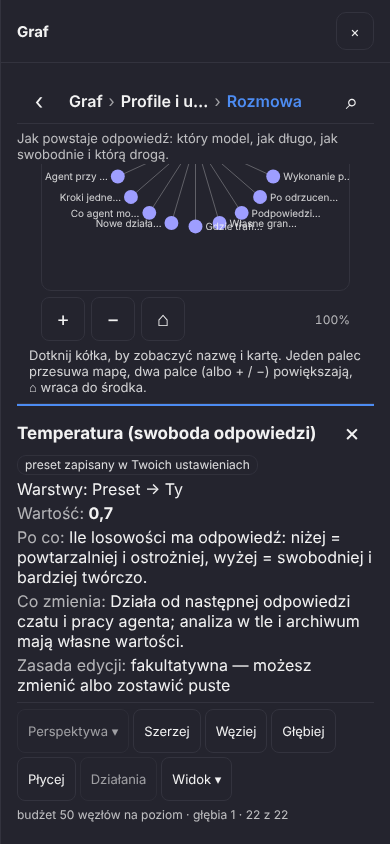
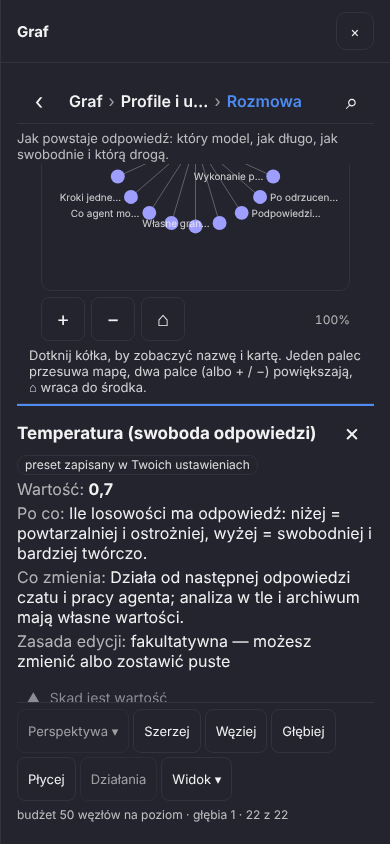
M1-W0 fix batch r1:b1 (resumed): ROM card without "Wartość: partial" (value = status → the status chip says it), seven M1 test scripts in CI, menu Ty / Ta rozmowa open the navigator at party:self / conv:<open conversation> (conv:current resolved in the shell, root when none), map labels only where t
Claude-Session: https://claude.ai/code/session_015yMVYJqXDd8sNSZdYq3gu5

diff --git a/docs/reports/INDEX.md b/docs/reports/INDEX.md
@@ -1540,3 +1540,10 @@ budowy cmake nie uruchamiano (dysk zajęty przez bramkę gdzie indziej).
 - Testy uruchomione (fakty): `test:m1-settings` 9/9, `test:m1-navigator` 11/11 (dwa razy po poprawce Disclosure), `test:shell` zielony, `npm run build` czysty. Przebieg końcowy (kontynuacja P7, 2026-10-21): `npm run build` + **wszystkie 56 skryptów `test:*`** po kolei + `npm run e2e` (`run.mjs`) — zielone; `test:product-integration` za pierwszym razem stanął na zasadzie `onboarding-host.mjs` „Refusing to overwrite prior evidence” (plik wyników z 2026-10-16 w `/home/user/wt/onboarding-host-verification-2026-10-05/`, katalog domyślny obok repozytorium; 21/21 grup przeszło), z `ONBOARDING_HOST_EVIDENCE_DIR` w katalogu roboczym przeszedł cały (nie ruszałem cudzego pliku dowodu). Po zmianie słów ponownie zielone: `test:navigator-state`, `test:settings-human`, `test:role-card`, `test:p25-views`, `test:graph-entry-browser`, `test:m1-navigator` 11/11, `test:m1-settings` 9/9. Przebiegi testów nadpisują śledzone zrzuty w `loom/web/e2e/screenshots/` (13 plików) — przywrócone `git checkout`, jak w P1. Po zmianie słów cały zestaw powtórzony na końcowym drzewie (51c53303): `npm run build` + 56 `test:*` + `npm run e2e` — **59/59, 0 błędów** (9,5 min; `ONBOARDING_HOST_EVIDENCE_DIR` w świeżym katalogu roboczym). Pełny doctest jądra (1731 przypadków) nadal nieuruchomiony do końca (P6) — nie w zakresie tej paczki.
 - Decyzje (techniczne, wg R1–R53) i jak cofnąć: (a) **Zwijany blok nie przewija się przy pierwszym renderze** (tylko po dotknięciu) — ekran otwiera się od góry. Cofnięcie: usunąć `seen` w `Disclosure.tsx`. (b) **Karta roli w e2e po ustawieniu modelu** (`settings.set semantic_model`, jak w `test:role-card`), bo bez modelu jądro nie liczy przepływów per klasa; przypadek bez modelu sprawdzony tylko na API (`flow: null`). Cofnięcie: usunąć wywołanie `settings.set` i asercje `flow_by_class`. (c) **12 zrzutów, nie 15**: pominięte duplikat korzenia, karta ROM, „Zdejmij wartość” i Wszystkie pola (opisane słowami) — limit 8–12 z briefu. Cofnięcie: skopiować z `loom/web/e2e/screenshots/` po przebiegu. (d) **`gate0` nie sprawdza „braku Trybu ratunkowego”**: to pozycja ROM, nie ekran; w webie nie ma takiego ekranu. Cofnięcie: dopisać oczekiwanie, gdy powłoka dostanie testid takiego ekranu. (e) **Zrzuty z przeglądarki, nie z emulatora** — emulator to M1-A0 (S2); raport mówi to wprost. (f) **Słowa stanu z dopowiedzeniem** („jest w aplikacji”, „częściowo w aplikacji”, „budżet N węzłów na poziom”) zamiast gołych „jest”/„częściowo”/„budżet N na poziom” — zmiana tylko w katalogach słów, nie w kodzie. Cofnięcie: przywrócić 12 linii `status.present`/`status.partial`/`bar.budget*` w `conversation_view.pack` (commit tej kontynuacji) i wygenerować ponownie. (g) **Cztery dodatkowe zrzuty, które pakiety m1 piszą do `M1_SHOTS_DIR`** (`m1-navigator-root`, `m1-navigator-card-rom`, `m1-navigator-card-unset`, `m1-settings-all-fields`) nie są w raporcie (limit 8–12) — usunięte z katalogu raportu po przebiegu. Cofnięcie: zostawić je i dopisać do raportu.
 - Nie zrobione tu: przebieg `android-smoke` (S2); przepisanie technicznych zdań z danych („Dlaczego tak jest” roli, powody „planowane” z nazwami plików) na prostsze — praca nad danymi `ports.pack`/`presentation.*`, nie nad ekranem; chip „planowane” w wierszu roli Rozmowa może mylić (znaczy: łańcuch opisany, nieczytany) — słowo stanu z danych, do rozważenia osobne słowo „opis” w `presentation.roles`.
+
+### S1 / M1-W0 (poprawki po przeglądzie r1:b1: wartość ROM, lista CI, menu Ty/Ta rozmowa, podpisy mapy, jedno słownictwo pochodzenia) (2026-10-21, branch `claude/m1-w0`)
+
+- Co jest (5 ustaleń przeglądu, wszystkie poprawione): (1) karta pozycji ROM pokazywała „Wartość: partial” — `valueLine` (`node-card-state.ts`) pomija linię, gdy `value` jest tym samym id co `status` (jądro wysyła `value = status`), chip `status.*` mówi stan słowami; e2e odrzuca gołe id stanu jako wartość karty (`m1-navigator-native.mjs`, lista id z packa). (2) `.github/workflows/loom.yml`: dopisane `test:navigator-state`, `test:node-card-state`, `test:navigator-map`, `test:settings-human`, `test:role-card` oraz po `playwright install` `test:m1-navigator`, `test:m1-settings`. (3) `layouts.json`: `me = navigator:party:self`, `this_conversation = navigator:conv:current`; `resolveNavigatorFocus` w `shell/menu.ts` (bez otwartej rozmowy → korzeń); `withFocusLabel` w `navigator-state.ts` daje krokowi ścieżki etykietę jądra; nowy krok e2e otwiera oba wpisy i porównuje wiersze z `graph.navigate`. (4) `placeLabels` w `navigator-map.ts`: podpis tylko wewnątrz mapy i bez kolizji, kolejność ognisko → dotknięty → reszta, strona odwracana przy krawędzi; test jednostkowy na zatłoczonym poziomie (24 wiersze, 342×300). (5) `layersLine`: linia „Warstwy” znika przy łańcuchu dziedziczenia i przy jednej warstwie; e2e sprawdza, że łańcuch jest jedynym opisem i że jego etykiety są słowami jądra w jego kolejności. Słowa `status.*` dla stanów wierszy Ty/rozmów dodane do `conversation_view.pack` + `builtin.inc` (gen-check czysty).
+- Testy uruchomione (fakty): `npm run build` czysty; `test:navigator-state` 8/8, `test:node-card-state` 8/8, `test:navigator-map` 9/9, `test:shell-menu` 8/8, `test:settings-human` 7/7, `test:role-card` 5/5; jądro przebudowane przyrostowo (`cmake --build --preset dev`); `test:m1-navigator` 12/12 (nowy krok menu Ty/Ta rozmowa), `test:m1-settings` 9/9. Raport `M1_CHECKPOINT_0.md` uzupełniony (menu → ten sam nawigator w trzech ogniskach, karta ROM bez linii wartości, jeden opis pochodzenia, podpisy mapy); zrzuty odświeżone: `m1-navigator-map`, `m1-navigator-card-setting`; dodane `m1-navigator-card-rom`, `m1-navigator-me` (14 PNG, każdy < 110 KB).
+- Decyzje i jak cofnąć: (a) linia „Wartość” znika tylko wtedy, gdy powtarzałaby stan chipu — każda inna wartość tekstowa zostaje (test: `value: present, status: partial` → „present”); cofnięcie: `valueLine` → `valueText`. (b) „Warstwy” ustępuje łańcuchowi zamiast dostać słowa poziomów — jedna lista zamiast dwóch; cofnięcie: usunąć warunek `inheritance` w `layersLine`. (c) Podpisy mapy: estymata szerokości znaku 5.8 px (`LABEL_CHAR_PX_PRESET`, brak miernika tekstu w SVG bez DOM) — presety, nie reguły. (d) `conv:current` jako sentinel w danych menu, rozwiązywany w powłoce (jądro go nie zna); cofnięcie: wpis `panel:graph` w `layouts.json`.
+- Nie zrobione tu: pełny przebieg wszystkich 56 `test:*` + `npm run e2e` (uruchomione tylko skrypty dotknięte zmianą); zrzut `m1-navigator-this_conversation` nie dodany do raportu (rozmowa testowa „M1 card” bez treści — ekran jak Ty, ale pusty); `android-smoke` (S2).

diff --git a/docs/reports/M1_CHECKPOINT_0.md b/docs/reports/M1_CHECKPOINT_0.md
@@ -17,7 +17,11 @@ powstał w teście, który sprawdza to samo, co widać (`loom/web/e2e/m1-navigat
 Dotknij **⋮** w prawym górnym rogu. Pozycje: **Graf · Ustawienia · Ty · Ta rozmowa w grafie · Widoki i okna · Analiza w tle ·
 Warsztat (narzędzia zaawansowane)**; na Androidzie dochodzi **Połączenie**. Nie ma „Pamięci” ani „Wiedzy” — zgodnie z Twoją
 uwagą, że to mylące: pamięć to graf widziany od węzła **Ty**, a wiedza to warstwa dowodów w grafie. Dawne panele nie zniknęły —
-są w **Warsztacie**. Menu „+” przy polu wiadomości (P33) zostało bez zmian.
+są w **Warsztacie**. Menu „+” przy polu wiadomości (P33) zostało bez zmian. **Graf · Ty · Ta rozmowa w grafie** otwierają
+**ten sam nawigator**, tylko w innym miejscu: Graf od korzenia, Ty od węzła **Ty** (Twój profil, preferencje, zainteresowania,
+„Co pamiętam”), Ta rozmowa od węzła otwartej rozmowy (bez otwartej rozmowy — od korzenia, nigdy od węzła, którego nie ma).
+
+![Ty w grafie](M1_CHECKPOINT_0/m1-navigator-me.png)
 
 ## 2. Graf — korzeń: wiersze z jądra, licznik albo „nieznane (powód)”
 
@@ -39,17 +43,23 @@ widzisz: **„budżet 50 węzłów na poziom · głębia 1 · 25 z 25”** — i
 Dotknij **ROM (pamięć tylko do odczytu)**. Ścieżka u góry: **Graf › ROM…** (dotknięcie członu cofa, **‹** cofa o jeden).
 Pod ścieżką jedno zdanie, po co jest ten obszar. 13 pozycji (Rozruch, Meta-ontologia, Interpreter akcji, Sterowniki i
 adaptery, Ustawienia fabryczne, …) — każda z chipem **Preset (ROM)** i stanem **jest w aplikacji / częściowo w aplikacji / planowane** (czy ta część
-aplikacji już działa) oraz zdaniem, co robi. **⋯** przy wierszu albo dotknięcie liścia otwiera **kartę węzła** pod listą: warstwy, wartość, po co, „Skąd jest
-wartość”, „Powiązania”, „Co możesz zrobić” (działania jądra słowami; te bez wykonawcy mają chip „planowane”).
+aplikacji już działa) oraz zdaniem, co robi. **⋯** przy wierszu albo dotknięcie liścia otwiera **kartę węzła** pod listą: chip pochodzenia i stan
+słowami, po co, „Skąd jest wartość”, „Powiązania”, „Co możesz zrobić” (działania jądra słowami; te bez wykonawcy mają chip „planowane”).
+Karta pozycji ROM nie ma osobnej linii „Wartość” — jej wartością z jądra jest sam stan, a ten mówi chip (nie ma na ekranie
+gołego `partial`).
+
+![karta Rozruchu](M1_CHECKPOINT_0/m1-navigator-card-rom.png)
 
 ## 4. Karta ustawienia — wartość, po co, co zmienia, skąd
 
 ![karta Temperatury](M1_CHECKPOINT_0/m1-navigator-card-setting.png)
 
 Graf › Profile i ustawienia › Rozmowa › **Temperatura (swoboda odpowiedzi)**: chip „preset zapisany w Twoich ustawieniach”,
-**Warstwy: Preset → Ty**, **Wartość: 0,7**, **Po co**, **Co zmienia** (od następnej odpowiedzi; analiza w tle i archiwum mają
+**Wartość: 0,7**, **Po co**, **Co zmienia** (od następnej odpowiedzi; analiza w tle i archiwum mają
 własne wartości), **Zasada edycji** (fakultatywna — możesz zmienić albo zostawić puste), **Czyta to** (przepływy, które
-czytają pole).
+czytają pole). Skąd jest wartość, mówi **jeden** opis — łańcuch poziomów w karcie (pkt 5); nie ma nad nim drugiej linii
+„Warstwy: Preset → Ty” innymi słowami, bo dwie nazwy jednego poziomu czytały się jak sprzeczność („Preset → Ty” nad
+„Preset aplikacji — nic tu nie ustawiono”).
 
 ## 5. Zmień → „Dla kogo?” → cały łańcuch dziedziczenia
 
@@ -69,6 +79,8 @@ Projekt (gałąź) → rozmowa → tura. **„Zdejmij wartość: Ta rozmowa (0,3
 
 Pod listą jest **mapa** tego samego poziomu (rysowana silnikiem widoków, układ sektorowy: ognisko w środku, dzieci wokół).
 Dotknij kółka — pod mapą pojawia się pełna nazwa i chip, a niżej ta sama karta co z listy; **Wejdź ›** schodzi poziom niżej.
+Podpis przy kółku jest tylko tam, gdzie mieści się w mapie i nie zasłania innego podpisu (najpierw ognisko i dotknięte
+kółko, potem kolejne wiersze); kółko bez podpisu nie jest ukryte — jego pełna nazwa jest pod mapą po dotknięciu.
 **+ / −** i gest dwoma palcami powiększają, **⌂** wraca do środka. Każde kółko ma cel dotyku 44 px. Prostokąt mapy jest
 zgłaszany powłoce Androida (`LoomBridge.setGestureExclusion`), żeby przesuwanie mapy nie było brane za gest „wstecz”.
 **Widok ▾** przełącza Lista / Mapa / Razem — wybór zapisuje się jako Twoje ustawienie `navigator_layout`
@@ -146,8 +158,8 @@ oddaje decyzję powłoce (`window.__loomBack()` zwraca `false` — tam Android p
   „planowane” z powodem (klasa wynika ze wzorców nazw i progów cen; nie ma jeszcze pola, które zapisuje Twoje klasy).
   Zmiana modelu roli = ta sama karta pola co w grafie. Bez wybranego modelu karta roli mówi, że przepływu jeszcze nie ma.
 - **Obszary „nieznane (powód)”** w korzeniu grafu (Samomodel, Technologie i adaptery, Interfejsy, …): żadne źródło
-  nie wypisuje jeszcze ich elementów — licznik pojawi się razem ze źródłem, nie wcześniej. Na mapie etykiety są skracane
-  do 12 znaków (cała nazwa pod mapą po dotknięciu).
+  nie wypisuje jeszcze ich elementów — licznik pojawi się razem ze źródłem, nie wcześniej. Na mapie podpisy są skracane
+  do 12 znaków i rysowane tylko tam, gdzie mieszczą się w mapie bez zasłaniania innych (cała nazwa pod mapą po dotknięciu).
 - **Nie na emulatorze Androida.** Powłoka (wstecz przez `OnBackPressedDispatcher`, `adjustResize`, prostokąty gestów,
   pytanie o wyjście) i przebieg `android-smoke` to M1-A0 (sesja S2). Kroki dla sterownika są w bloku `gate0` w
   `docs/reports/M1_W0_TESTIDS.md`.

diff --git a/docs/architecture/M1_USTAWIENIA_JAKO_GRAF_2026-10-16.md b/docs/architecture/M1_USTAWIENIA_JAKO_GRAF_2026-10-16.md
@@ -375,3 +375,4 @@ Pliki: docs/architecture/USTAWIENIA_JAKO_GRAF_2026-10-16.md (treść tej specyfi
 - **S1, 2026-10-21 (M1-W0 paczka P4, mapa nawigatora):** §3.2 „Lista i Mapa” i „Mapa” doprecyzowane w kodzie (`NavigatorMap.tsx`, `navigator-map.ts`): lista i mapa jedna pod drugą w `Disclosure`, preset `navigator_layout = both`, `list`/`map` **zwijają** drugą część (jedno dotknięcie ją rozwija), nie usuwają; Widok ▾ zapisuje wybór przez `settings.set`. Mapa rysuje poziom `graph.navigate` przez `view-engine/project.ts` (`flat_2d`, układ `sector`: ognisko w środku, dzieci wg kolejności, głębsze dalej); kolory wg rodzaju (`kind-colors.ts`), rozmiar wg log(licznik). Dotknięcie znaku (przycisk 44 px) = etykieta w linii pod mapą **i** karta węzła; „Wejdź ›” wchodzi głębiej. Gesty: jeden palec przesuwa, uszczypnięcie powiększa (zdarzenia wskaźnika w 2D, nie tylko `scene3d`), `+ / − / ⌂`. Prostokąt wykluczenia mapy → `LoomBridge.setGestureExclusion` (§3.14), `[]` gdy zwinięta/poza ekranem. **Jeszcze nie z danych**: układ per perspektywa (`render.layout`, `coordinate_systems` perspektywy), wybór renderera z `view_renderers` (`spatial_3d`), kompozycja sektorów/side_by_side, linia podpowiedzi generowana z `interaction_bindings` (dziś `map.hint` mówi, co mapa robi) — razem z Perspektywą ▾.
 - **S1, 2026-10-21 (M1-W0 paczka P5, Ustawienia po ludzku):** §3.5 zrobione w `SettingsHuman.tsx` w tej postaci: lista ośmiu grup z `settings.resolved` (kolejność, etykieta i „po co” z danych) z licznikiem „N pól · M Twoje” → widok grupy z polami wg podgrup; „Twoje” = wartość nadana na poziomie osoby/rozmowy/jednostki, nie równa presetowi (preset zapisany w `config.json` się nie liczy); „Pokaż tylko zmienione” działa w widoku grupy; zmiana pola otwiera kartę węzła z §3.2 (nie osobny edytor); pole „planowane” pokazuje powód jądra od razu; Silnik › Wszystkie pola = dawny ekran w całości (też `Disclosure`), a prośba o wpisanie sekretu otwiera Ustawienia właśnie tam. **Jeszcze nie ma:** przełącznika „Ustawiam dla: …” (poziom wybiera się w karcie, „Dla kogo?”), zapamiętania filtra, edycji sekretu w karcie. Warsztat zachowuje stary ekran Ustawień bez zmian (§3.13).
 - **S1, 2026-10-21 (M1-W0 paczka P7, e2e + raport):** testy z końca sekcji „Testy” są w tej postaci: `e2e/m1-navigator-native.mjs` (11 kroków) i `e2e/m1-settings-native.mjs` (9 kroków), oba 390×844 z dotykiem na prawdziwym `loom-server`, `scrollWidth ≤ 390` i cele ≥ 44 px w każdym kroku (dawny ekran pod Silnik › Wszystkie pola wyłączony ze sprawdzenia — nieruszany, 35–40 px); liczby z jądra i packów, nie literały. Raport Bramy 0 ze zrzutami z przeglądarki (nie z emulatora — to M1-A0): `docs/reports/M1_CHECKPOINT_0.md` + `M1_CHECKPOINT_0/`; kroki dla sterownika Androida w bloku `gate0` w `docs/reports/M1_W0_TESTIDS.md`. Doprecyzowanie §3.14 (Disclosure): zwijany blok przewija się do siebie tylko po przełączeniu, nie przy pierwszym renderze, żeby ekran z otwartą mapą pod listą otwierał się od góry. Słowa §3.2 (chip stanu wiersza i linia budżetu): `status.present` = „jest w aplikacji”, `status.partial` = „częściowo w aplikacji”, `bar.budget` = „budżet {{limit}} węzłów na poziom · głębia {{hops}}” — gołe „jest”/„częściowo”/„budżet N na poziom” nie mówiły, czego dotyczą (obejrzane na zrzutach 390×844).
+- **S1, 2026-10-21 (M1-W0 poprawki po przeglądzie r1:b1):** §3.1 i §3.13 w kodzie: `layouts.json` ma `me = navigator:party:self` i `this_conversation = navigator:conv:current`; `conv:current` rozwiązuje `resolveNavigatorFocus` (`shell/menu.ts`) na adres otwartej rozmowy (`conv:<hex>` dla `c_<hex>`, prefiksy z `element_resolution.pack`, test odczytuje je z packa), a bez otwartej rozmowy na korzeń — nigdy węzeł, którego nie ma; krok ścieżki otwarty z menu bierze etykietę ogniska z odpowiedzi jądra (`withFocusLabel`). Stare panele `user-knowledge` i `graph` zostają w Warsztacie (§3.13), nie w menu. Karta węzła: pozycja ROM nie ma linii „Wartość: partial” (wartością z jądra jest stan, mówi go chip `status.*`); linia „Warstwy: …” znika, gdy karta ma łańcuch dziedziczenia (jedno słownictwo: poziomy jądra), i gdy warstwa jest jedna (chip ją nazywa). Mapa: podpis rysowany tylko wewnątrz mapy i bez nakładania (`placeLabels`, ognisko i dotknięty znak pierwsze), reszta pod mapą po dotknięciu. Słowa `status.known/unknown/declined/never/effective/disabled/active/excluded/pending/complete/proposal/awaiting_confirmation` dodane do `presentation.graph_screen` (wiersze Ty i rozmów mają te stany).
